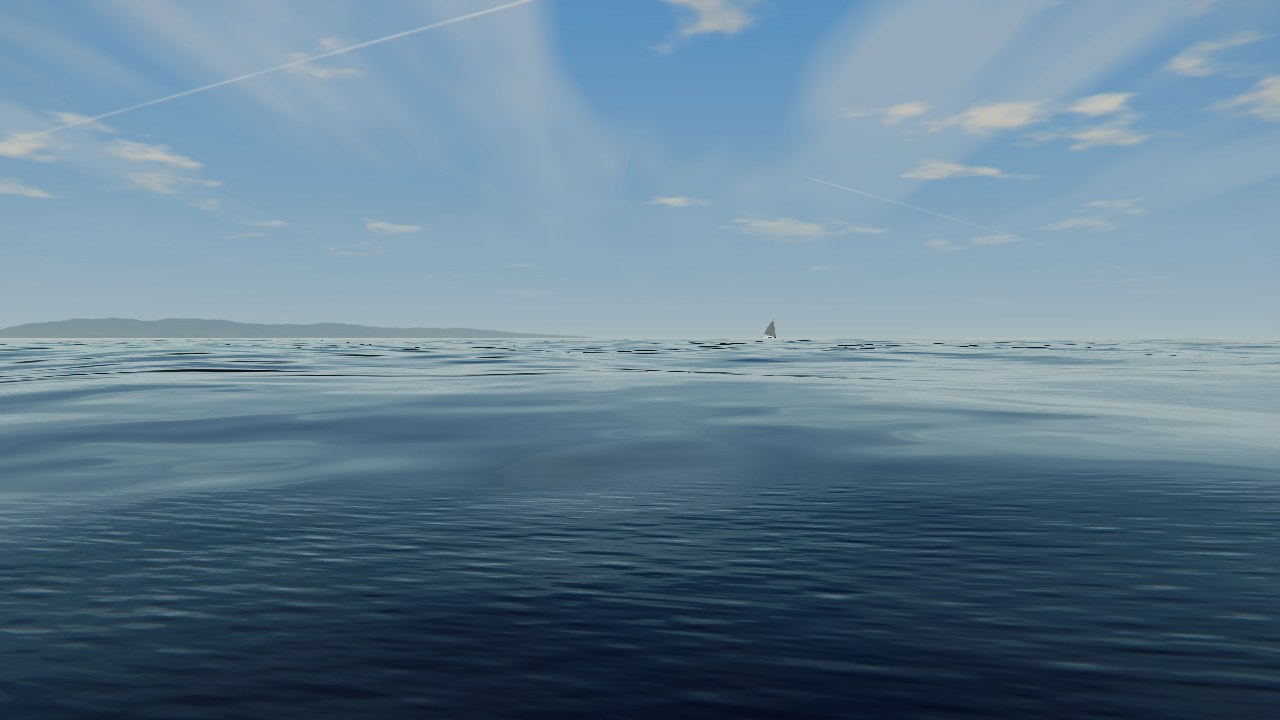
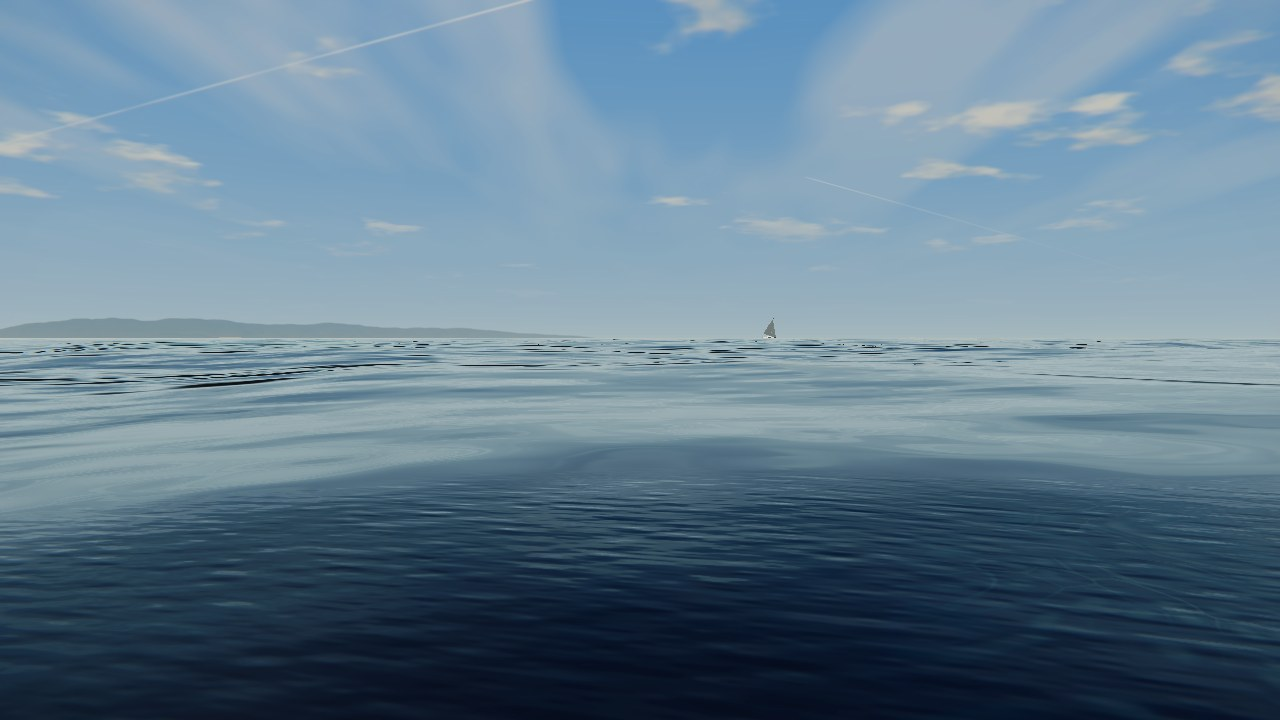
ocean-closeup stills: final after set, overcast pairs

diff --git a/README.md b/README.md
@@ -4,6 +4,7 @@ The Pacific close up (branch `wt/ocean-closeup`). Pairs: before = `OCEAN_CLOSEUP
 close-up pass. 01-18: the city through `tools/glshot/still_shot.gd` on opengl3 (Compatibility,
 1280x720), clear weather, at noon (12:00), golden hour (17:36) and night (21:30). 19-22: Forward+
 on lavapipe, `tools/glshot/fwd_block_shot.tscn` (the city's sky and weather, a few blocks), noon.
+23-26: overcast at 13:00, opengl3, `fwd_block_shot.tscn` `BLOCKS=3`.
 
 | file | what |
 |---|---|
@@ -18,3 +19,5 @@ on lavapipe, `tools/glshot/fwd_block_shot.tscn` (the city's sky and weather, a f
 | 17/18 | under the pier at night: the lamps' columns broken by the ripples |
 | 19/20 | Forward+: under the pier in the surf (foam net, collars) |
 | 21/22 | Forward+: the pier from the surf |
+| 23/24 | overcast, under the pier |
+| 25/26 | overcast, a boat's eye (2.2 m) |
